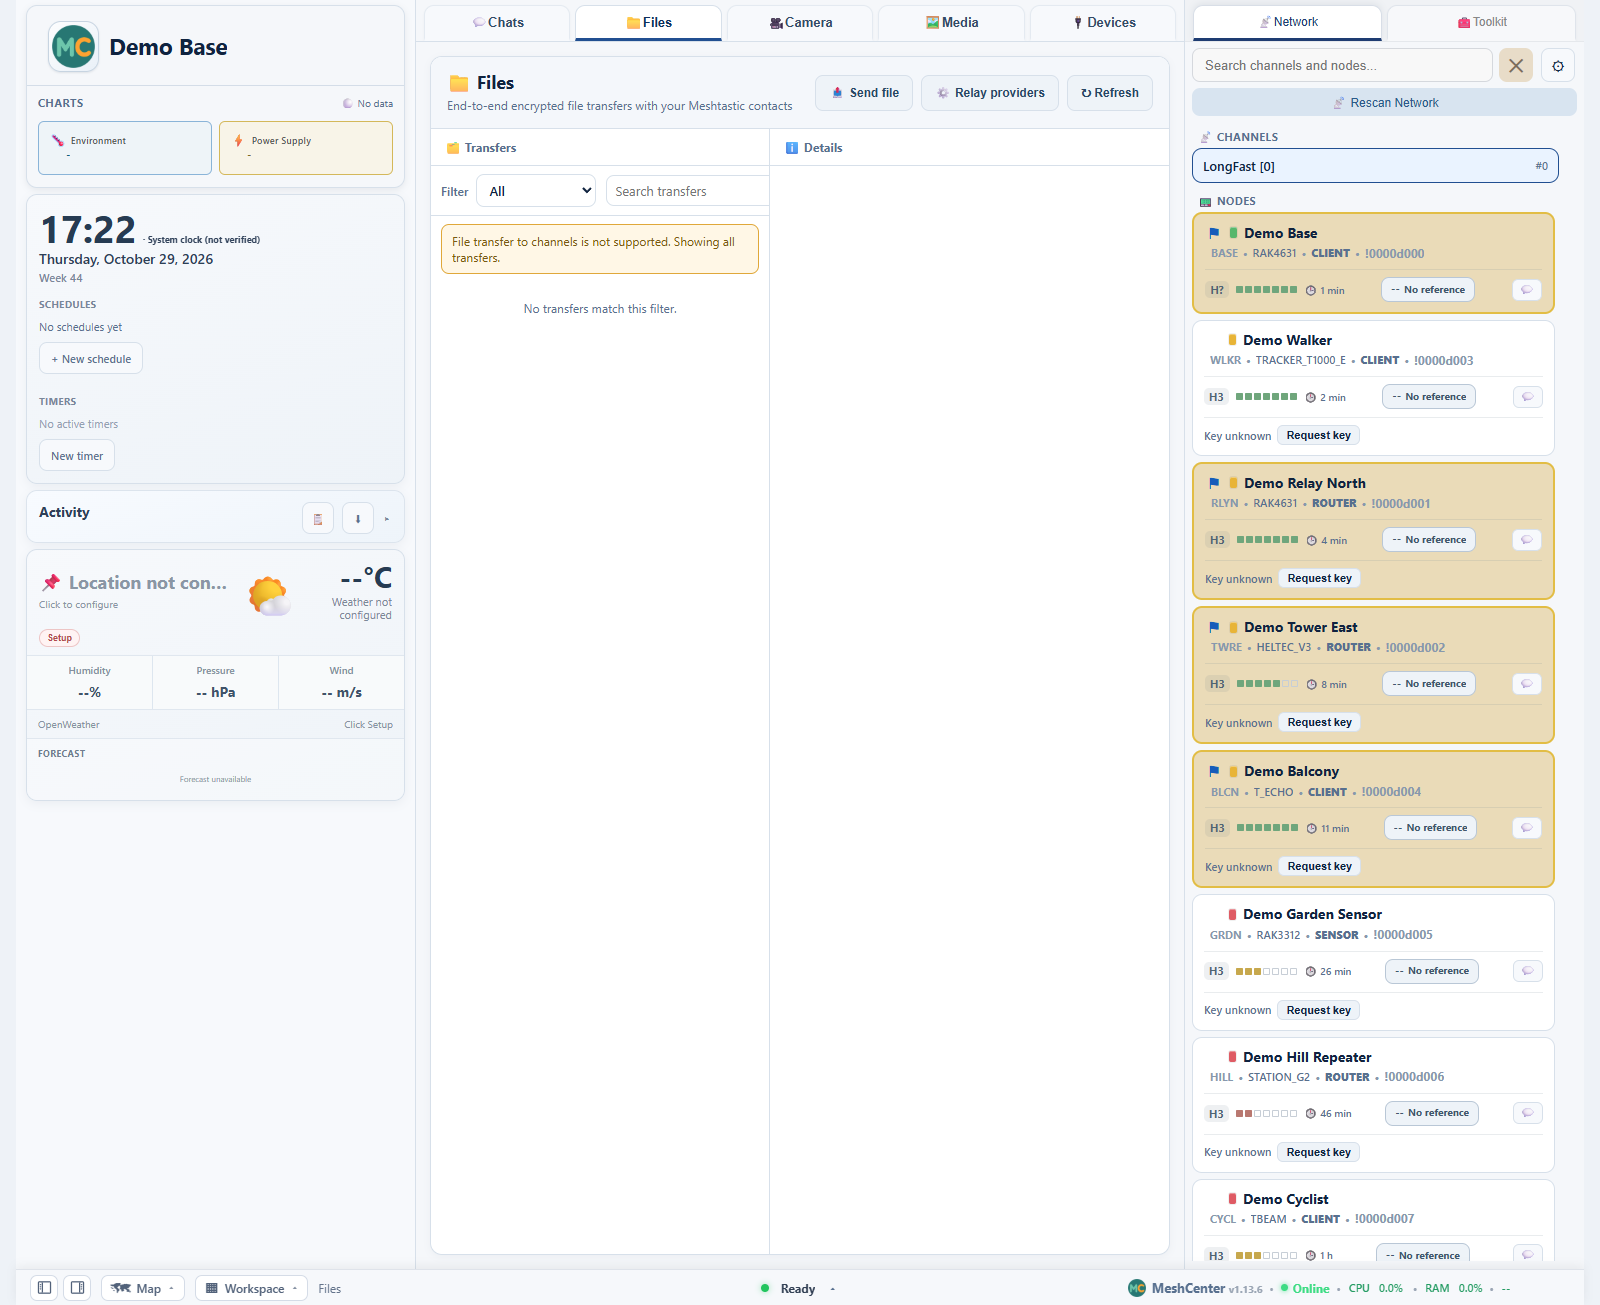
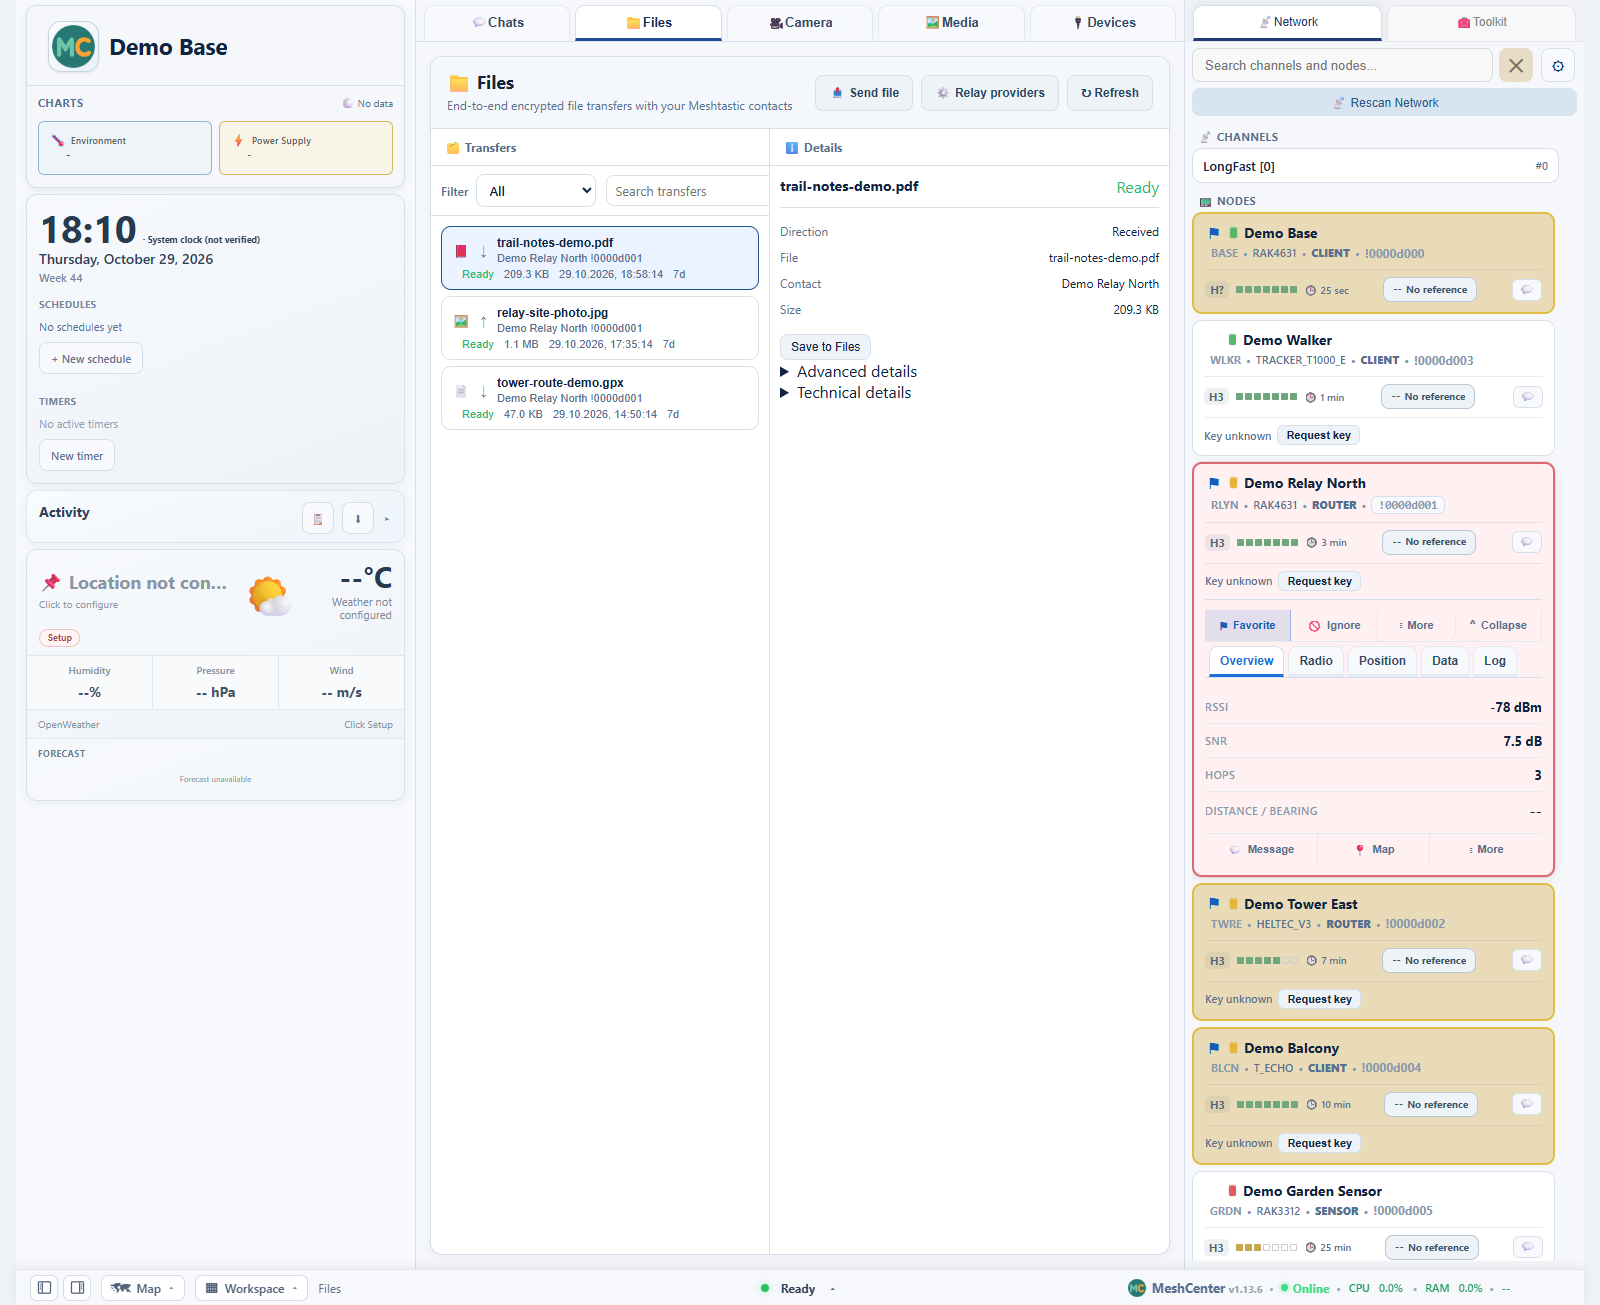
Files screenshot with three invented demo transfers; seeder writes them, capture can retake only that image

diff --git a/scripts/demo_screenshots/demo_server.py b/scripts/demo_screenshots/demo_server.py
@@ -190,6 +190,63 @@ try:
 except Exception as error:  # the Files tab then says "not ready"; every other view is unaffected
     print("DEMO: MCAttach service not started:", type(error).__name__, error, flush=True)
 
+# ---- three invented file transfers for the Files tab (rows written straight into the throwaway MCAttach database)
+import threading  # noqa: E402
+
+
+def seed_transfers():
+    import sqlite3
+    import uuid
+
+    deadline = time.time() + 30
+    paths = []
+    while time.time() < deadline and not paths:
+        paths = [str(path) for path in (data_dir / "mca").rglob("attachments.db")]
+        time.sleep(0.5)
+    if not paths:
+        print("DEMO: no MCAttach database found, the Files tab stays empty", flush=True)
+        return
+    connection = sqlite3.connect(paths[0])
+    try:
+        principal = connection.execute("SELECT workspace_id, principal_id FROM mca_principal LIMIT 1").fetchone()
+    except sqlite3.Error:
+        principal = None
+    if principal is None:
+        print("DEMO: could not read the MCAttach principal, the Files tab stays empty", flush=True)
+        return
+    workspace_id, principal_id = principal
+    stamp = int(time.time())
+    demo = [
+        # direction, state, file name, mime, size, minutes ago
+        ("received", "AVAILABLE", "trail-notes-demo.pdf", "application/pdf", 214_330, 12),
+        ("sent", "DOWNLOADED", "relay-site-photo.jpg", "image/jpeg", 1_204_880, 95),
+        ("received", "DOWNLOADED", "tower-route-demo.gpx", "application/gpx+xml", 48_120, 260),
+    ]
+    counterparty = "!0000d001"  # the node the app selects first: the Files list is filtered to the selected node
+    for direction, state, name, mime, size, minutes in demo:
+        attachment_id = uuid.uuid4().hex
+        connection.execute(
+            "INSERT INTO attachments (id, workspace_id, transfer_id, direction, principal_id, sender_principal_id, provider_id, state, "
+            "file_name, mime_type, plain_size, cipher_size, plain_sha256, created_at, hard_expires_at, download_grace_seconds, "
+            "reply_route_type, reply_route_id) "
+            "VALUES (?, ?, ?, ?, ?, ?, ?, ?, ?, ?, ?, ?, ?, ?, ?, ?, ?, ?)",
+            (attachment_id, workspace_id, uuid.uuid4().hex, direction, principal_id, None, "demo-relay", state, name, mime,
+             size, size + 28, "0" * 64, stamp - minutes * 60, stamp + 7 * 86400, 3600,
+             "DIRECT" if direction == "received" else None, counterparty if direction == "received" else None),
+        )
+        if direction == "sent":
+            connection.execute(
+                "INSERT INTO attachment_deliveries (id, attachment_id, adapter_id, connector_profile_id, route_type, route_id, "
+                "wire_format, idempotency_key, state, sent_at) VALUES (?, ?, ?, ?, ?, ?, ?, ?, ?, ?)",
+                (uuid.uuid4().hex, attachment_id, "meshtastic", "demo", "DIRECT", counterparty, "MCA1-TEXT", uuid.uuid4().hex, "SENT",
+                 stamp - minutes * 60),
+            )
+    connection.commit()
+    connection.close()
+
+
+threading.Thread(target=seed_transfers, daemon=True).start()
+
 # ---- a calm radio status: the sandbox has no listener, so keep the stored health at "OK" and never "busy"
 import threading  # noqa: E402
 

diff --git a/scripts/demo_screenshots/capture.py b/scripts/demo_screenshots/capture.py
@@ -2,7 +2,9 @@
 docs/images/, recompressed losslessly.
 
     python scripts/demo_screenshots/demo_server.py &              # fake data only
-    python scripts/demo_screenshots/capture.py [http://127.0.0.1:8795] [output dir]
+    python scripts/demo_screenshots/capture.py [http://127.0.0.1:8795] [output dir] [files]
+
+A third argument `files` takes only the Files (MCAttach) image.
 
 Needs Playwright with Microsoft Edge or Chromium (`pip install playwright`), Pillow and zopflipy (lossless PNG
 recompression). Before every shot the page text is scrubbed of anything that belongs to the machine the demo runs on
@@ -86,7 +88,24 @@ def open_channel(page):
     page.wait_for_function("document.querySelectorAll('.message').length > 2", timeout=15000)
 
 
+def capture_files_only():
+    with sync_playwright() as p:
+        try:
+            browser = p.chromium.launch(channel="msedge")
+        except Exception:
+            browser = p.chromium.launch()
+        page = fresh(browser, DESKTOP, "light")
+        page.evaluate("switchMainTab('files')")
+        page.wait_for_function("document.querySelectorAll('.files-transfer-item').length > 0", timeout=20000)
+        page.evaluate("document.querySelector('.files-transfer-item').click()")
+        settle(page, 2500)
+        save(page, "MeshCenter_files_light_theme.png")
+        browser.close()
+
+
 def main():
+    if len(sys.argv) > 3 and sys.argv[3] == "files":
+        return capture_files_only()
     with sync_playwright() as p:
         try:
             browser = p.chromium.launch(channel="msedge")
@@ -101,6 +120,8 @@ def main():
 
         # 3. Files (MCAttach), light
         page.evaluate("switchMainTab('files')")
+        page.wait_for_function("document.querySelectorAll('.files-transfer-item').length > 0", timeout=20000)
+        page.evaluate("document.querySelector('.files-transfer-item').click()")
         settle(page, 2500)
         save(page, "MeshCenter_files_light_theme.png")
 
